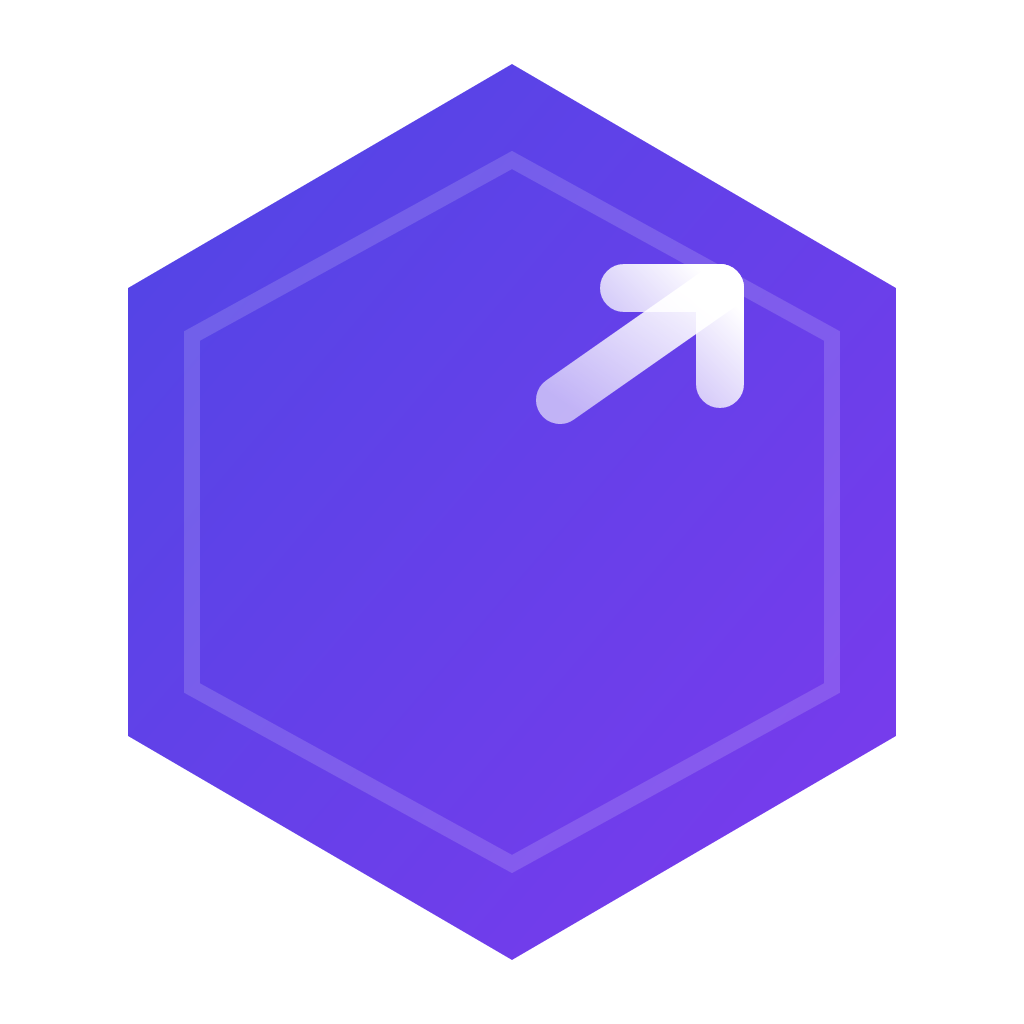
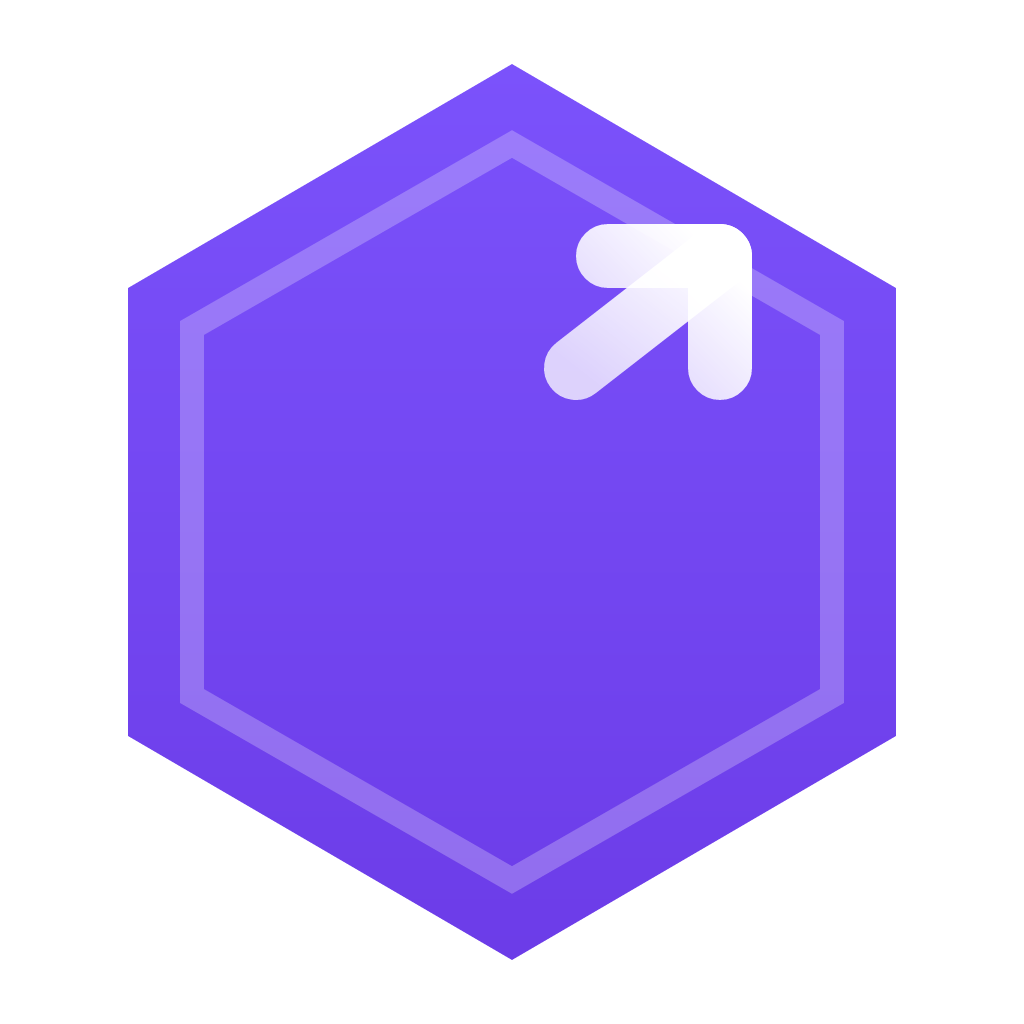
fixed

Changed region(s): [[0.125, 0.0625, 0.8438, 0.875], [0.6875, 0.375, 0.7188, 0.4062]]

diff --git a/frontend/src/components/SpendovaLogo.tsx b/frontend/src/components/SpendovaLogo.tsx
@@ -26,42 +26,39 @@ export default function SpendovaLogo({ theme = 'light', size = 64 }: LogoProps) 
   }));
 
   /**
-   * SPENDOVA LOGO — CENTERED INNER SYMBOL
-   *
-   * ViewBox: 0 0 64 64   →   center is (32, 32)
-   *
-   * Symbol horizontal span: x 19 → 45   →   midpoint = 32  ✓
-   * Symbol vertical span:   y 18 → 46   →   midpoint = 32  ✓
-   *
-   * 3 ascending bars + diagonal arrow leap to top-right
+   * SPENDOVA LOGO — MATCHING THE PROVIDED PURPLE/GLOW STYLE
    */
 
-  // Bar bottoms fixed at y=46, tops ascending
-  const BAR1 = "M19 46V40";   // short  (6 units tall),  x=19
-  const BAR2 = "M27 46V33";   // medium (13 units tall), x=27
-  const BAR3 = "M35 46V25";   // tall   (21 units tall), x=35
+  // Bar bottoms fixed at y=46 (with round linecaps, they actually extend down by half the stroke width)
+  const BAR1 = "M20 46V41";   // short  (5 units tall),  x=20
+  const BAR2 = "M28 46V33";   // medium (13 units tall), x=28
+  const BAR3 = "M36 46V23";   // tall   (23 units tall), x=36
 
   // Arrow shoots diagonally from top of BAR3 to top-right
-  const ARROW_STEM = "M35 25L45 18";
-  // Arrowhead — two short lines from the tip
-  const ARROW_HEAD = "M45 18L39 18M45 18L45 24";
+  const ARROW_STEM = "M36 23L45 16";
+  // Arrowhead — thicker and pointing up-right
+  const ARROW_HEAD = "M45 16L38 16M45 16L45 23";
 
   // Outer hexagon shape
   const HEX = "M32 4L56 18V46L32 60L8 46V18L32 4Z";
 
+  // Inner hexagon shape for the border highlight
+  const INNER_HEX = "M32 9L52 20.5V43.5L32 55L12 43.5V20.5L32 9Z";
+
   return (
     <View style={{ width: size, height: size, alignItems: 'center', justifyContent: 'center' }}>
 
-      {/* ── LIGHT THEME ── Deep Indigo → Violet */}
+      {/* ── LIGHT THEME ── Vibrant Purple (matching user image) */}
       <Animated.View style={lightStyle}>
         <Svg width={size} height={size} viewBox="0 0 64 64" fill="none">
           <Defs>
-            <LinearGradient id="lgHexL" x1="0%" y1="0%" x2="100%" y2="100%">
-              <Stop offset="0%" stopColor="#4F46E5" />
-              <Stop offset="100%" stopColor="#7C3AED" />
+            <LinearGradient id="lgHexL" x1="0%" y1="0%" x2="0%" y2="100%">
+              {/* Very subtle gradient, looks almost solid vibrant purple */}
+              <Stop offset="0%" stopColor="#7B52FB" />
+              <Stop offset="100%" stopColor="#6C3CE8" />
             </LinearGradient>
             <LinearGradient id="lgBarsL" x1="0%" y1="100%" x2="100%" y2="0%">
-              <Stop offset="0%" stopColor="#FFFFFF" stopOpacity="0.6" />
+              <Stop offset="0%" stopColor="#FFFFFF" stopOpacity="0.75" />
               <Stop offset="100%" stopColor="#FFFFFF" stopOpacity="1" />
             </LinearGradient>
           </Defs>
@@ -69,26 +66,26 @@ export default function SpendovaLogo({ theme = 'light', size = 64 }: LogoProps) 
           {/* Filled hexagon background */}
           <Path d={HEX} fill="url(#lgHexL)" />
 
-          {/* Subtle inner hex stroke for depth */}
+          {/* Distinct inner hex stroke (matching the image's lighter border) */}
           <Path
-            d="M32 10L52 21V43L32 54L12 43V21L32 10Z"
-            stroke="rgba(255,255,255,0.15)"
-            strokeWidth="1"
+            d={INNER_HEX}
+            stroke="rgba(255,255,255,0.25)"
+            strokeWidth="1.5"
             fill="none"
           />
 
-          {/* Rising bar chart */}
-          <Path d={BAR1} stroke="url(#lgBarsL)" strokeWidth="3.5" strokeLinecap="round" />
-          <Path d={BAR2} stroke="url(#lgBarsL)" strokeWidth="3.5" strokeLinecap="round" />
-          <Path d={BAR3} stroke="url(#lgBarsL)" strokeWidth="3.5" strokeLinecap="round" />
+          {/* Rising bar chart - THICKER AND ROUNDER */}
+          <Path d={BAR1} stroke="url(#lgBarsL)" strokeWidth="4.5" strokeLinecap="round" />
+          <Path d={BAR2} stroke="url(#lgBarsL)" strokeWidth="4.5" strokeLinecap="round" />
+          <Path d={BAR3} stroke="url(#lgBarsL)" strokeWidth="4.5" strokeLinecap="round" />
 
           {/* Diagonal arrow leap */}
-          <Path d={ARROW_STEM} stroke="url(#lgBarsL)" strokeWidth="3" strokeLinecap="round" />
-          <Path d={ARROW_HEAD} stroke="url(#lgBarsL)" strokeWidth="3" strokeLinecap="round" strokeLinejoin="round" />
+          <Path d={ARROW_STEM} stroke="url(#lgBarsL)" strokeWidth="4" strokeLinecap="round" />
+          <Path d={ARROW_HEAD} stroke="url(#lgBarsL)" strokeWidth="4" strokeLinecap="round" strokeLinejoin="round" />
         </Svg>
       </Animated.View>
 
-      {/* ── DARK THEME ── Cyan → Emerald neon glow */}
+      {/* ── DARK THEME ── Cyan → Emerald neon glow (Thicker lines to match) */}
       <Animated.View style={darkStyle}>
         <Svg width={size} height={size} viewBox="0 0 64 64" fill="none">
           <Defs>
@@ -97,7 +94,7 @@ export default function SpendovaLogo({ theme = 'light', size = 64 }: LogoProps) 
               <Stop offset="100%" stopColor="#059669" />
             </LinearGradient>
             <LinearGradient id="lgBarsD" x1="0%" y1="100%" x2="100%" y2="0%">
-              <Stop offset="0%" stopColor="#A7F3D0" stopOpacity="0.8" />
+              <Stop offset="0%" stopColor="#A7F3D0" stopOpacity="0.85" />
               <Stop offset="100%" stopColor="#ECFDF5" stopOpacity="1" />
             </LinearGradient>
           </Defs>
@@ -107,20 +104,20 @@ export default function SpendovaLogo({ theme = 'light', size = 64 }: LogoProps) 
 
           {/* Subtle inner hex stroke for depth */}
           <Path
-            d="M32 10L52 21V43L32 54L12 43V21L32 10Z"
-            stroke="rgba(255,255,255,0.12)"
-            strokeWidth="1"
+            d={INNER_HEX}
+            stroke="rgba(255,255,255,0.15)"
+            strokeWidth="1.5"
             fill="none"
           />
 
           {/* Rising bar chart */}
-          <Path d={BAR1} stroke="url(#lgBarsD)" strokeWidth="3.5" strokeLinecap="round" />
-          <Path d={BAR2} stroke="url(#lgBarsD)" strokeWidth="3.5" strokeLinecap="round" />
-          <Path d={BAR3} stroke="url(#lgBarsD)" strokeWidth="3.5" strokeLinecap="round" />
+          <Path d={BAR1} stroke="url(#lgBarsD)" strokeWidth="4.5" strokeLinecap="round" />
+          <Path d={BAR2} stroke="url(#lgBarsD)" strokeWidth="4.5" strokeLinecap="round" />
+          <Path d={BAR3} stroke="url(#lgBarsD)" strokeWidth="4.5" strokeLinecap="round" />
 
           {/* Diagonal arrow leap */}
-          <Path d={ARROW_STEM} stroke="url(#lgBarsD)" strokeWidth="3" strokeLinecap="round" />
-          <Path d={ARROW_HEAD} stroke="url(#lgBarsD)" strokeWidth="3" strokeLinecap="round" strokeLinejoin="round" />
+          <Path d={ARROW_STEM} stroke="url(#lgBarsD)" strokeWidth="4" strokeLinecap="round" />
+          <Path d={ARROW_HEAD} stroke="url(#lgBarsD)" strokeWidth="4" strokeLinecap="round" strokeLinejoin="round" />
         </Svg>
       </Animated.View>
 
